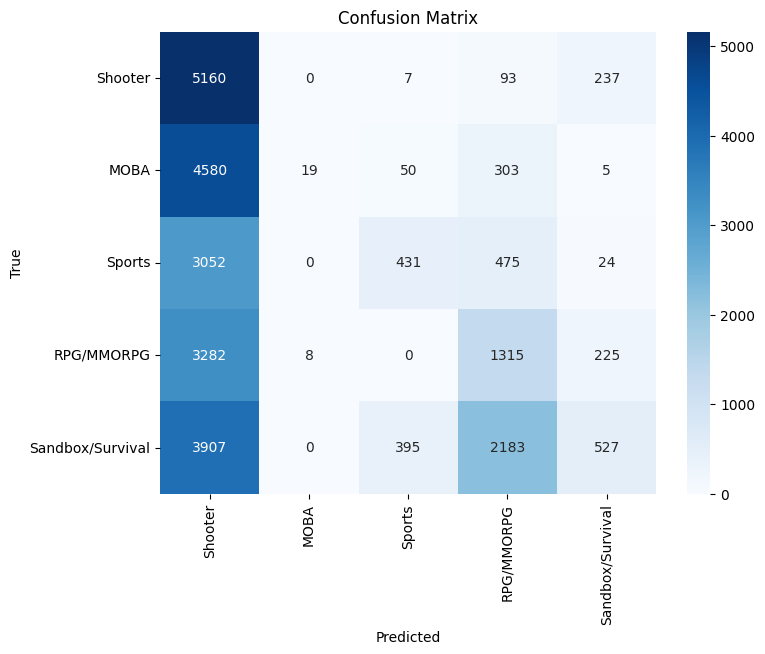
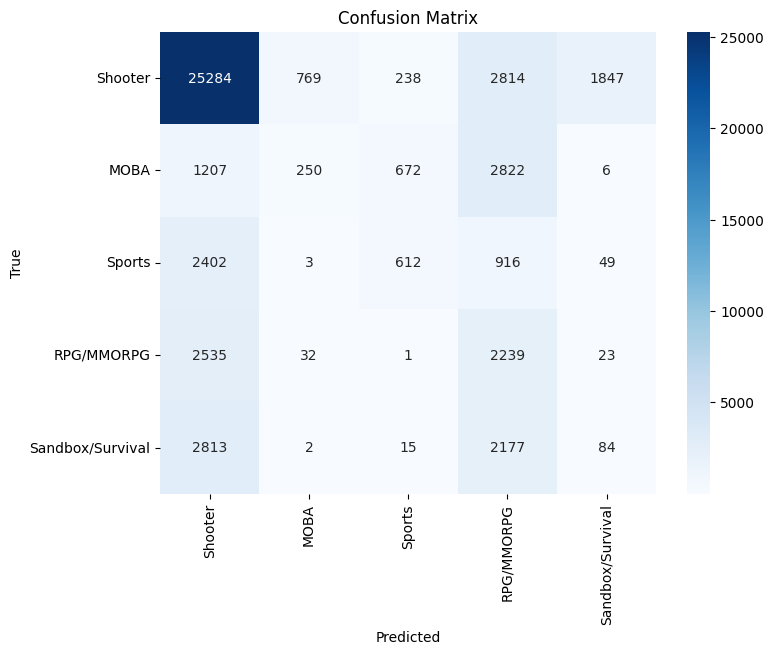
feat: add balanced game-level split and retrain model

diff --git a/src/config.py b/src/config.py
@@ -2,7 +2,7 @@ from pathlib import Path
 
 PROJECT_ROOT = Path(__file__).resolve().parents[1]
 RAW_DATA_DIR = PROJECT_ROOT / "data" / "raw"
-SPLIT_FILE = PROJECT_ROOT / "data" / "splits" / "split_v1.json"
+SPLIT_FILE = PROJECT_ROOT / "data" / "splits" / "split_v2.json"
 
 IMG_SIZE = 224
 
@@ -13,11 +13,11 @@ SEED = 42
 
 IMG_EXTENSIONS = (".png", ".jpg", ".jpeg", ".bmp", ".webp")
 
-EPOCHS = 10
-LR = 1e-4
+EPOCHS = 20
+LR = 5e-5
 WEIGHT_DECAY = 1e-4
 
-UNFREEZE_LAST_N_BLOCKS = 1  
+UNFREEZE_LAST_N_BLOCKS = 2  
 
 VAL_SPLIT = 0.2
 

diff --git a/README.md b/README.md
@@ -44,7 +44,7 @@ We use the public Kaggle dataset:
 
 It contains screenshots from 21 games:
 
-ApexLegends, CSGO, ClashRoyale, DeathByDaylight, Dota2, EscapeFromTarkov, FIFA21, Fortnite, FreeFire, GTAV, LeagueOfLegends, Minecraft, Overwatch, PUBG_Battleground, RainbowSix, RocketLeague, Rust, SeaOfThieves, Valorant, Warzone, WorldOfWarcraft
+*ApexLegends, CSGO, ClashRoyale, DeathByDaylight, Dota2, EscapeFromTarkov, FIFA21, Fortnite, FreeFire, GTAV, LeagueOfLegends, Minecraft, Overwatch, PUBG_Battleground, RainbowSix, RocketLeague, Rust, SeaOfThieves, Valorant, Warzone, WorldOfWarcraft*
 
 Each game is mapped into one of the 5 defined genres.
 
@@ -114,8 +114,58 @@ python src/train.py
 
 ---
 
+## 🧪 Evaluation
+```
+python src/evaluate.py
+```
+---
+
+## 🔍 Single Image Prediction
+```
+python src/predict.py --image "path/to/screenshot.png"
+```
+
+---
+
+## 📈 Results
+
+Final model evaluated on unseen games (game-level split, 49,812 test images):
+
+| Metric | Value |
+|------|------|
+| Accuracy | **57%** |
+| Weighted F1-score | **0.54** |
+| Macro F1-score | **0.28** |
+
+### Per-class performance
+
+| Genre | Precision | Recall | F1 |
+|------|------|------|------|
+| Shooter | 0.74 | 0.82 | 0.78 |
+| MOBA | 0.24 | 0.05 | 0.08 |
+| Sports | 0.40 | 0.15 | 0.22 |
+| RPG/MMORPG | 0.20 | 0.46 | 0.28 |
+| Sandbox/Survival | 0.04 | 0.02 | 0.02 |
+
+### Confusion Matrix
+![Confusion Matrix](outputs/figures/confusion_matrix.png)
+
+---
+
+## 💬 Discussion
+
+Although the model achieves near-perfect validation accuracy (>99%), performance drops on unseen games due to the game-level split.
+This indicates the model learns general visual patterns rather than memorizing specific games.
+
+Certain genres (e.g. Shooter) contain strong visual cues such as crosshair and first-person HUD, making them easier to classify.
+Other genres (MOBA, Sandbox/Survival) require semantic understanding beyond a single screenshot, which limits CNN performance.
+
+This demonstrates the inherent difficulty of genre recognition from static images.
+
+---
+
 ## 👤 Author
-Dmitar Štrbac  
+**Dmitar Štrbac**  
 Faculty of Technical Sciences, University of Novi Sad
 
 ---
